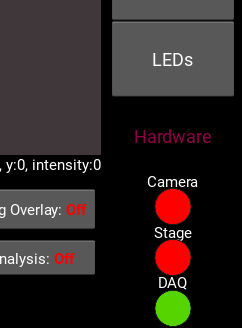
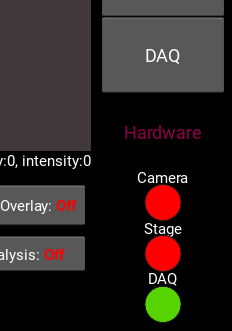
- Rename LED/s to DAQ

diff --git a/docs/software/daq_controller.md b/docs/software/daq_controller.md
@@ -10,7 +10,7 @@ nav_order: 6
 GlowTracker has a feature that allows controlling of a Data Acquisition device (DAQ), specifically of LabJack U3 family, to send out analogue signal programatically to control other electronic devices such as an LED driver or a buzzer --- enabling a wide range of experimentation e.g. Mechanogenetics, and Optogenetics.
 The analogue output line is set to `DAC0` (learn more [here](https://support.labjack.com/docs/2-hardware-description-u3-datasheet)) and the voltage is capped at 5V.
 
-This feature can be accessed via the `LEDs` button on the right column.
+This feature can be accessed via the `DAQ` button on the right column.
 A green light status under `DAQ` indicates a connection with a DAQ devices.
 If the light status is red, click on it to attempt to connect to a DAQ device via USB port.
 
@@ -19,13 +19,13 @@ If the light status is red, click on it to attempt to connect to a DAQ device vi
 </figure>
 
 Once clicked, a window will appear.
-There are two main tabs: **Leds Sequencer** and **Leds-Stage program**; each corresponds to how the analogue signal is sent.
-**Leds Sequencer** lets you write a signal sequence, saying what time (second or frame number) and how much voltage.
-**Leds-Stage program** lets you send out a signal based on current stage position.
-To enable which mode activate when the recording start, click on the drop-down option next to the blue <b style='color:#018EFF;'>LEDs Mode</b> text, the options are: "Off", "Leds Sequencer", and "Leds-Stage program".
+There are two main tabs: **Sequencer** and **Stage program**; each corresponds to how the analogue signal is sent.
+**Sequencer** lets you write a signal sequence, saying what time (second or frame number) and how much voltage.
+**Stage program** lets you send out a signal based on current stage position.
+To enable which mode activate when the recording start, click on the drop-down option next to the blue <b style='color:#018EFF;'>DAQ Mode</b> text, the options are: "Off", "Sequencer", and "Stage program".
 
 <figure class="center-figure">
-  <img src="../custom_assets/images/daq_controller/LedSequencer.png" alt="MacroScriptWidget" width="80%">
+  <img src="../custom_assets/images/daq_controller/Sequencer.png" alt="MacroScriptWidget" width="80%">
   <figcaption>A DAQ Controller window. Currently Sequencer window tab.</figcaption>
 </figure>
 
@@ -71,9 +71,9 @@ At the 10th second, the output is set back to 0 vol and remain until before the 
 Depending on the camera's framerate, it is highly likely that we do not get an exact 1-to-1 match from the second to the acquired frame number.
 In which case, the command will be mapped to the first closest frame after the specified ideal time e.g. if the target time is at 5.0 second but the acquired frames are at 4.9, 5.1, 5.3, ..., the command will execute at frame 5.1 second.
 
-## Leds-Stage Program
+## Stage Program
 
-The Leds-Stage program lets you send out a signal based on the current stage position. 
+The Stage program lets you send out a signal based on the current stage position. 
 There are two stage program modes: `Gaussian` and `FourPoint`.
 
 - `Gaussian` is a normalized 2D Gaussian function 
@@ -90,14 +90,14 @@ $$
   }
 $$, where $$A$$ is an amplitude (peak of the distribution).
 <figure class="center-figure">
-  <img src="../custom_assets/images/daq_controller/LedsStageProgram_Gaussian.png" alt="MacroScriptWidget" width="80%">
+  <img src="../custom_assets/images/daq_controller/StageProgram_Gaussian.png" alt="MacroScriptWidget" width="80%">
   <figcaption>StageProgram Gaussian mode</figcaption>
 </figure>
 
 - `FourPoint` is bilinear interpolation between four 2D vertices $$\left[p_1, p_2, p_3, p_4 \right]$$, each with its weight $$\left[w_1, w_2, w_3, w_4 \right]$$. 
 Points outside quadrilateral can be set to $$0$$ or a constant float value.
 <figure class="center-figure">
-  <img src="../custom_assets/images/daq_controller/LedsStageProgram_FourPoint.png" alt="MacroScriptWidget" width="80%">
+  <img src="../custom_assets/images/daq_controller/StageProgram_FourPoint.png" alt="MacroScriptWidget" width="80%">
   <figcaption>StageProgram FourPoint</figcaption>
 </figure>
 
@@ -105,6 +105,6 @@ For both of the stage program modes, there is a toggle switch to interpret the p
 In an example figure below, we can set the mean of the Gaussian distribution to be relative to the starting position at recording by (-30, -30) mm.
 
 <figure class="center-figure">
-  <img src="../custom_assets/images/daq_controller/LedsStageProgram_Gaussian_relative.png" alt="MacroScriptWidget" width="80%">
+  <img src="../custom_assets/images/daq_controller/StageProgram_Gaussian_relative.png" alt="MacroScriptWidget" width="80%">
   <figcaption>StageProgram Gaussian relative to the starting position</figcaption>
 </figure>
